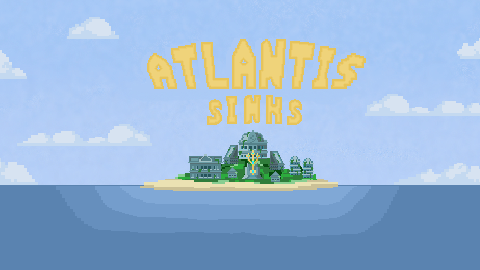
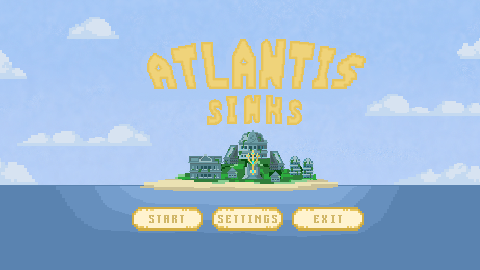
Final refinement on the main menu and updated transition animation.

Changed region(s): [[0.25, 0.7407, 0.7812, 0.8593]]

diff --git a/source/core/src/main/com/deco2800/game/screens/MainMenuScreen.java b/source/core/src/main/com/deco2800/game/screens/MainMenuScreen.java
@@ -29,7 +29,7 @@ public class MainMenuScreen extends ScreenAdapter {
   private final GdxGame game;
   private final Renderer renderer;
   public static final int frameCount = 190;
-  private static final String[] mainMenuTextures = {"images/Crafting-assets-sprint1/screens/substitute main menu by Rey.png"};
+  private static final String[] mainMenuTextures = {"images/Crafting-assets-sprint1/screens/atlantis sinks main menu.png"};
 
   public static String[] transitionTextures = new String[frameCount];
   private static final String animationPrefix = "images/Crafting-assets-sprint1/screens/title animation/title_animation";
@@ -109,7 +109,6 @@ public class MainMenuScreen extends ScreenAdapter {
   private void loadFrames() {
     logger.debug("Loading assets");
     ResourceService resourceService = ServiceLocator.getResourceService();
-//    resourceService.loadMusic(mainMenuMusic);
 
     for (int i = 0; i < frameCount; i++) {
       transitionTextures[i] = animationPrefix + i + ".png";

diff --git a/source/core/src/main/com/deco2800/game/screens/MainMenuTransitionScreen.java b/source/core/src/main/com/deco2800/game/screens/MainMenuTransitionScreen.java
@@ -27,7 +27,7 @@ public class MainMenuTransitionScreen extends ScreenAdapter {
     private final Renderer renderer;
     private static final String animationPrefix = "images/Crafting-assets-sprint1/screens/main menu animation/atlantis sinks animation";
 
-    public static final int frameCount = 85;
+    public static final int frameCount = 63;
     public static String[] transitionTextures = new String[frameCount];
 
     public MainMenuTransitionScreen(GdxGame game) {
@@ -69,7 +69,7 @@ public class MainMenuTransitionScreen extends ScreenAdapter {
         logger.debug("Loading assets");
         ResourceService resourceService = ServiceLocator.getResourceService();
 
-        for (int i = 0; i < frameCount; i++) {
+        for (int i = 1; i < frameCount; i++) {
             transitionTextures[i] = animationPrefix + i + ".png";
         }
         resourceService.loadTextures(transitionTextures);

diff --git a/source/core/src/main/com/deco2800/game/components/player/OpenPauseComponent.java b/source/core/src/main/com/deco2800/game/components/player/OpenPauseComponent.java
@@ -129,12 +129,10 @@ public class OpenPauseComponent extends Component {
      * @return              True on success else false
      */
     public Boolean openPlayerGuide(int level, int pageNumber) {
-
         if (pageNumber > 8) {
             logger.error("Invalid player guide page given");
             return false;
         }
-
         if (level == 1) {
             ServiceLocator.getPlayerGuidArea().setPlayerGuideMenu(playerGuideAssets.get(pageNumber - 1));
         } else if (level == 2) {
@@ -143,7 +141,6 @@ public class OpenPauseComponent extends Component {
             logger.error("Invalid player guide level given");
             return false;
         }
-
         playerGuideOpen = true;
         logger.info("Turning to player guide level {} page {}", level, pageNumber);
         return true;

diff --git a/source/core/src/main/com/deco2800/game/components/mainmenu/MainMenuDisplayProMax.java b/source/core/src/main/com/deco2800/game/components/mainmenu/MainMenuDisplayProMax.java
@@ -56,7 +56,7 @@ public class MainMenuDisplayProMax extends UIComponent {
                 new Image(
                         ServiceLocator.getResourceService()
                                 .getAsset(
-                                        "images/Crafting-assets-sprint1/screens/substitute main menu by Rey.png",
+                                        "images/Crafting-assets-sprint1/screens/atlantis sinks main menu.png",
                                         Texture.class));
         mainMenu.setWidth(Gdx.graphics.getWidth());
         mainMenu.setHeight(Gdx.graphics.getHeight());

diff --git a/source/core/src/main/com/deco2800/game/components/mainmenu/MainMenuTransitionAnimation.java b/source/core/src/main/com/deco2800/game/components/mainmenu/MainMenuTransitionAnimation.java
@@ -24,7 +24,7 @@ public class MainMenuTransitionAnimation extends UIComponent {
 
     @Override
     public void create() {
-        frame = 0;
+        frame = 1;
         super.create();
         addActors();
     }
